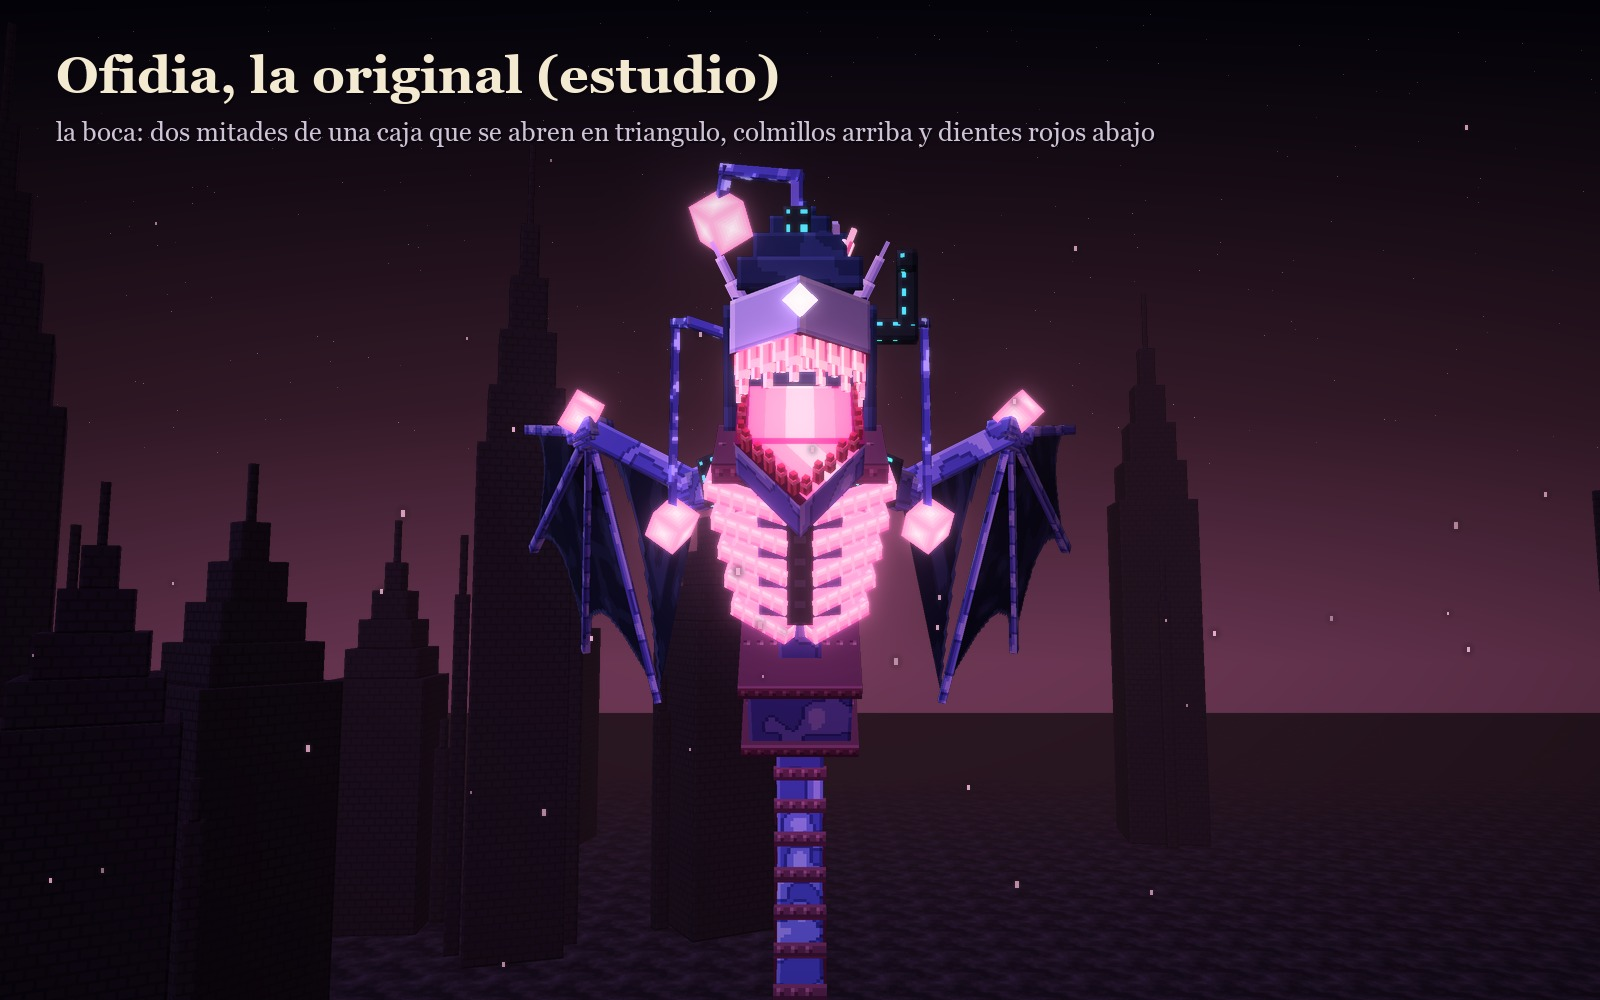
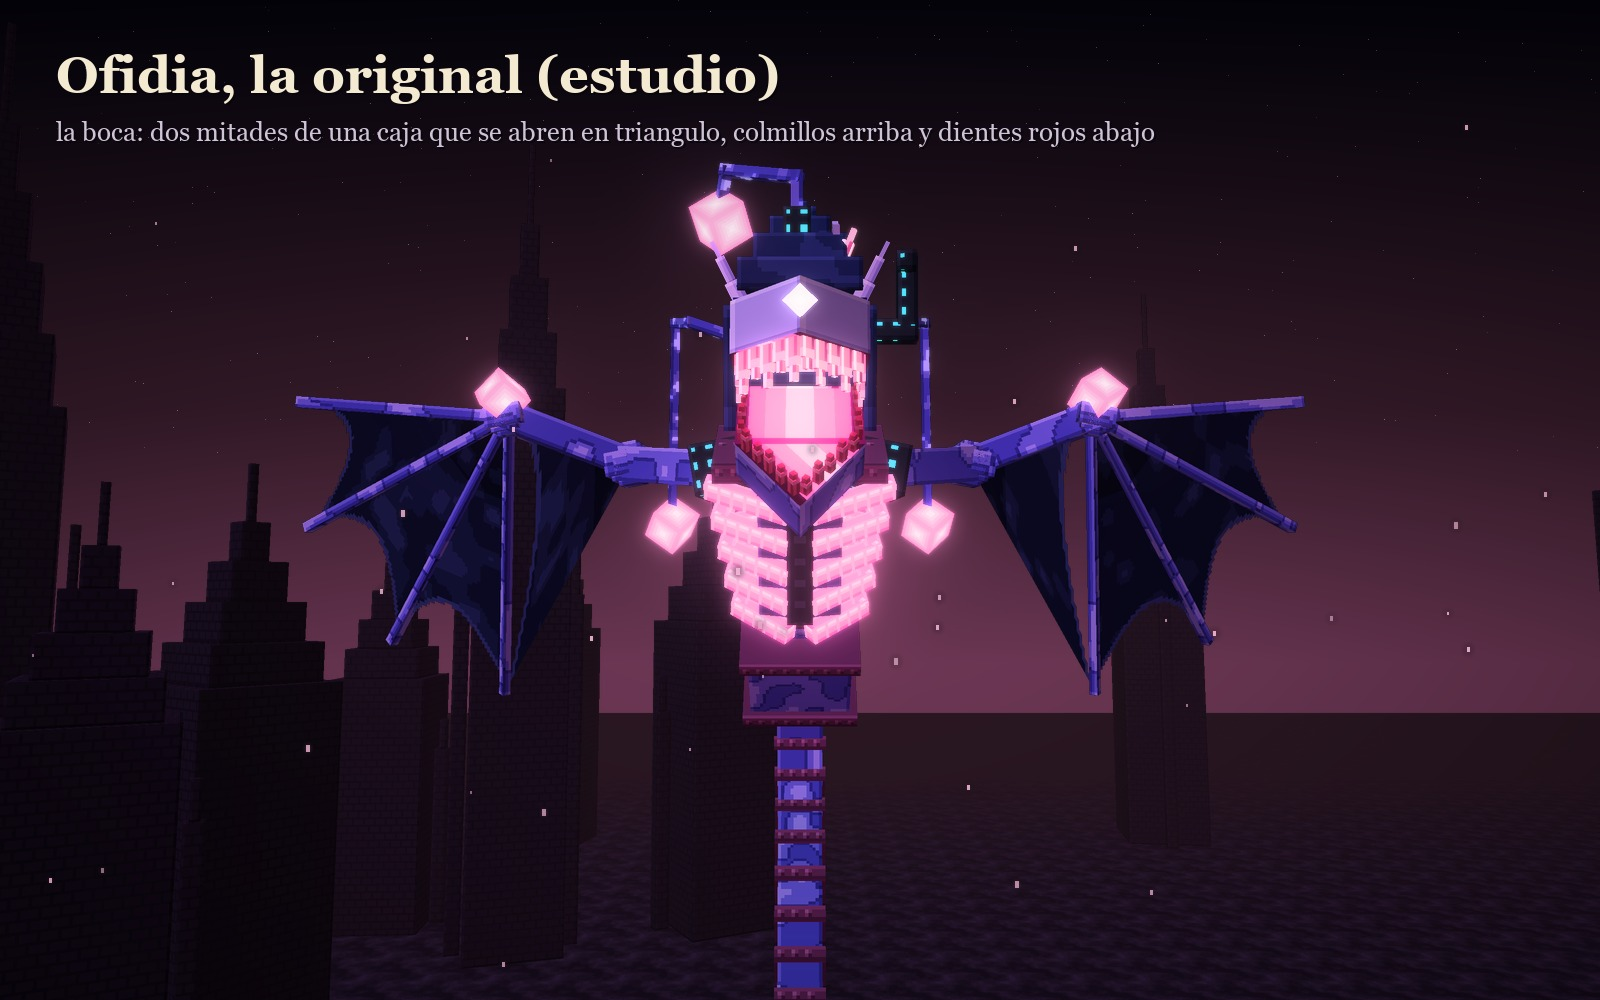
Ofidia sheet: rounder S and fully open wings, from Juan's red marks
Follows the red marks Juan painted over the renders. Right below the
chest the body now makes a rounder S: it goes back, sweeps forward in
a big curve and the tail ends going back with the fin. The S curve
was measured from his red stroke and checked by overlaying it on the
new side render.

The bat wings are now fully open to the sides, nearly horizontal with
the tips slightly up and no back sweep, and their leading edge (arm
and first finger) is longer so it reaches as far as his red line.

Changed region(s): [[0.4375, 0.372, 0.8125, 1.0], [0.1875, 0.372, 0.4688, 0.713], [0.2188, 0.62, 0.25, 0.651]]

diff --git a/materiales/generadores/ofidia_modelo.py b/materiales/generadores/ofidia_modelo.py
@@ -480,8 +480,8 @@ ANCLA = np.array((0.0, 23.0, 0.0))  # la base del costillar: de aqui cuelga el c
 
 # la ese, de perfil, desde la base del costillar hasta la aleta: baja hacia atras, vuelve hacia
 # delante y al final la cola se va hacia atras, como en el dibujo de Juan
-ESE = [(0.0, 23.0, 0.0), (0.0, 20.9, -1.7), (0.0, 17.6, -4.6), (0.0, 13.9, -4.4), (0.0, 10.6, -1.4), (0.0, 7.9, 1.8),
-       (0.0, 5.6, 2.6), (0.0, 4.0, 1.0), (0.0, 3.3, -2.0), (0.0, 3.2, -5.6)]
+ESE = [(0.0, 23.0, 0.0), (0.0, 21.7, -2.9), (0.0, 19.6, -4.9), (0.0, 17.0, -5.7), (0.0, 14.4, -4.9), (0.0, 12.0, -2.2),
+       (0.0, 9.6, 0.0), (0.0, 7.6, 2.3), (0.0, 6.0, 2.6), (0.0, 4.8, 0.6), (0.0, 3.9, -1.7), (0.0, 3.4, -3.4)]
 
 
 def _cortes(ctrl, cortes, paso):
@@ -588,12 +588,13 @@ def ofidia(variante='O'):
     G = vr.T(*ANCLA) @ vr.Rx(INCLINA * D) @ vr.T(0, -18.8, 0)
     out += qm.transformar(torso, G)
 
-    # las alas, abiertas a los lados y un poco hacia atras, a nivel (no se inclinan con el torso)
+    # las alas, abiertas del todo a los lados, casi horizontales y con las puntas un poco hacia arriba
+    # (a nivel: no se inclinan con el torso)
     hombros = np.array((0.0, 24.4, -0.8))
     for s in (1, -1):
         alas = []
         ala(alas, s, V, P, dy=8.4)
-        Mal = vr.T(*punto(G, hombros)) @ vr.Ry(s * 34 * D) @ vr.Rz(-s * 14 * D) @ vr.T(*(-hombros))
+        Mal = vr.T(*punto(G, hombros)) @ vr.Ry(s * 8 * D) @ vr.Rz(-s * 10 * D) @ vr.T(*(-hombros))
         out += qm.transformar(alas, Mal)
 
     # el cuerpo en ese, de la base del costillar a la aleta
@@ -630,10 +631,10 @@ def ala(out, s, V, P, dy=0.0):
     k = V['clave']
     sube = np.array((0.0, dy, 0.0))
     hombro = np.array((s * 2.7, 16.0, -0.8)) + sube
-    codo = np.array((s * 6.4, 17.0, -3.2)) + sube
-    muneca = np.array((s * 10.0, 20.4, -1.2)) + sube
-    dedos = [np.array((s * 16.0, 23.0, -3.6)) + sube, np.array((s * 18.6, 18.0, -5.2)) + sube,
-             np.array((s * 16.8, 12.6, -5.8)) + sube, np.array((s * 12.2, 9.4, -5.0)) + sube]
+    codo = np.array((s * 6.6, 17.2, -2.6)) + sube
+    muneca = np.array((s * 10.6, 19.6, -1.4)) + sube
+    dedos = [np.array((s * 19.8, 22.4, -3.0)) + sube, np.array((s * 21.0, 17.6, -4.4)) + sube,
+             np.array((s * 18.2, 12.4, -4.8)) + sube, np.array((s * 13.4, 9.6, -4.0)) + sube]
     cubo(out, vr.T(*hombro), -1.0, -0.9, -1.1, 2.0, 1.8, 2.2, P['gancho'], semilla=20)            # el hombro, con remaches
     viga(out, hombro, codo, 1.35, 1.3, P['marmol'], extra=0.3, semilla=21)
     viga(out, codo, muneca, 1.1, 1.05, P['marmol'], extra=0.28, semilla=22)

diff --git a/materiales/fichas/ofidia/LEEME.md b/materiales/fichas/ofidia/LEEME.md
@@ -5,7 +5,7 @@ Eufonia Studio. Su cartel oficial está en
 https://x.com/dedsafio/status/2109039127597560179.
 
 Juan pidió el 12-10-2026 recrearla igual y hacerle variantes propias, «para no copiarla
-como tal». Hicieron falta nueve versiones:
+como tal». Hicieron falta diez versiones:
 
 1. La primera no se parecía: «fíjate bien cómo es Ofidia… date tu tiempo, investiga
    más».
@@ -28,8 +28,12 @@ como tal». Hicieron falta nueve versiones:
 8. La octava dividió el cuerpo por tramos («es como pequeño, un poco grande, pequeño de
    vuelta y luego sigue lo demás, sus costillas»), la hizo más alta, alargó la mandíbula y
    quitó la membrana de las axilas.
-9. Esta novena le da la pose en ese del dibujo de Juan («la pose está muy tiesa; vamos a
+9. La novena le dio la pose en ese del dibujo de Juan («la pose está muy tiesa; vamos a
    hacer que tenga una pose como una S»), con la cintura más fina y el cuerpo más largo.
+10. Esta décima sigue las marcas en rojo que Juan pintó sobre los renders («solo haz este
+    cambio y quedaría listo»). El cuerpo hace una ese más redonda justo debajo del pecho y
+    las alas van abiertas del todo a los lados. La ese se midió sobre su trazo rojo y se
+    comprobó superponiéndolo al render nuevo.
 
 **La original es solo para estudiarla; no va al mod.** Las candidatas son las tres
 variantes. A Juan le gustó la Encadenada.
@@ -48,10 +52,13 @@ Las fuentes son cinco:
 
 En la forma de monstruo se ve:
 
-- **La pose, en ese** (el dibujo de Juan, de perfil):
-  - la cabeza arriba, mirando al frente, con las alas abiertas un poco hacia atrás;
+- **La pose, en ese** (el dibujo de Juan y sus marcas en rojo):
+  - la cabeza arriba, mirando al frente;
+  - las alas, abiertas del todo a los lados, casi horizontales, con las puntas un poco
+    hacia arriba;
   - el torso se echa hacia delante;
-  - debajo, el cuerpo baja hacia atrás y vuelve hacia delante;
+  - justo debajo del pecho, el cuerpo se va hacia atrás y hace una curva grande hacia
+    delante;
   - al final, la cola se va hacia atrás con la aleta roja.
 
   Flota: no toca el suelo.
